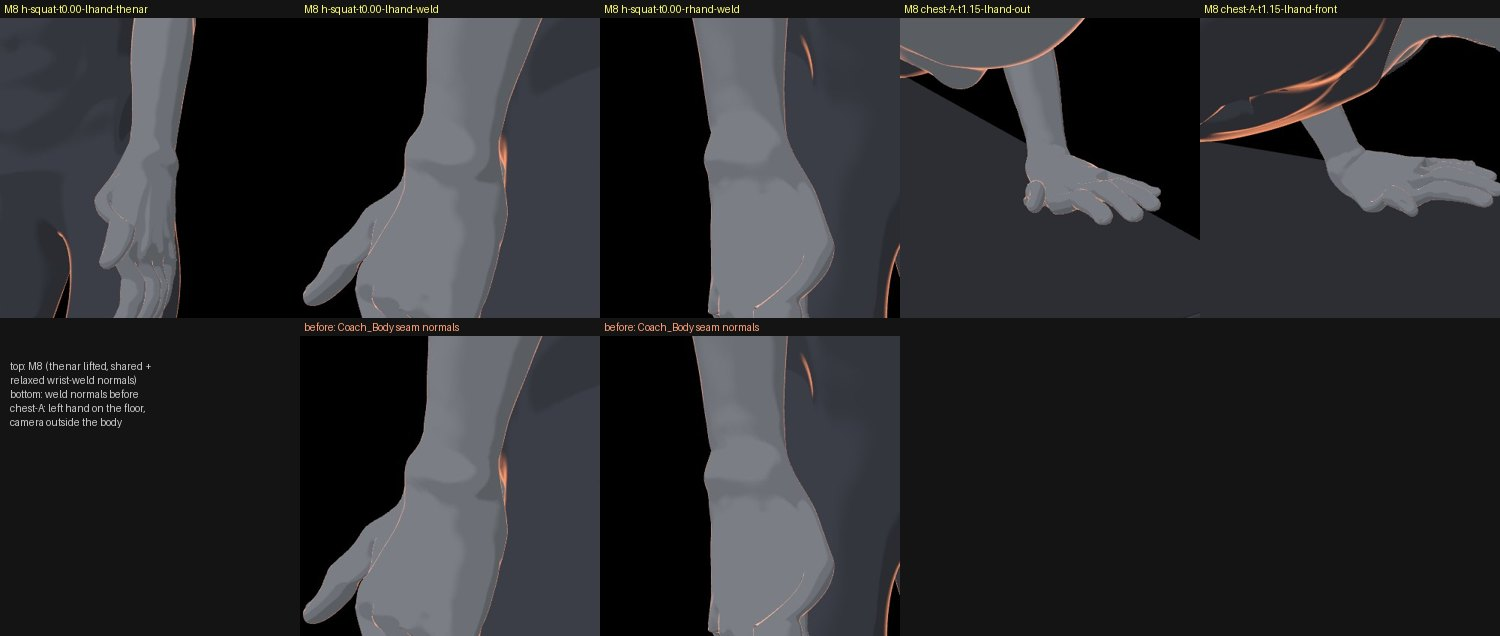
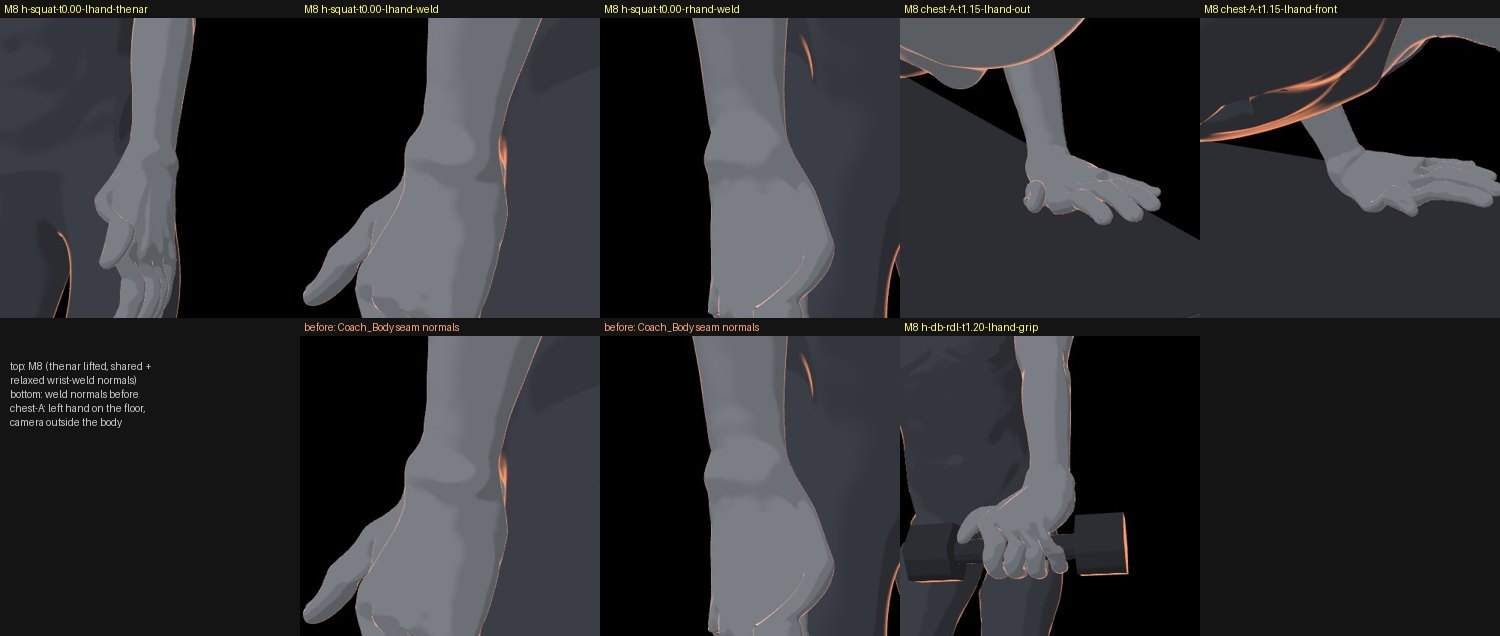
test(v2plus hands M8): fix set adds the h-db-rdl 1.2 left grip close-up (grip clean after the thenar lift); fix.jpg

Changed region(s): [[0.5827, 0.5079, 0.7667, 1.0]]

diff --git a/docs/training-human-v2plus-proto.md b/docs/training-human-v2plus-proto.md
@@ -282,6 +282,6 @@ Base Meshes v1.4.1 realistic male (CC0). Needs `limbs:'base'` (throws otherwise)
   The limbs piece gets the same normals for its wrist seams + 5 rings (`limbsNrm`, 927 verts, converted to bind space in `loadHands`,
   swapped in / out by `setHands`), so limbs-only mode keeps its weld to the v2 hand exactly as before. `H_WELDN=0` rebuilds the old way.
 - **chest-A t=1.15 left hand** (palm on the floor) checked with cameras outside the body: flat palm, fingers on the floor, no folds.
-- Check: `tools/human-v2plus/run.sh tools/human-v2plus/hands-poses.mjs <out> --set fix` (hands only, 5 close-ups; `HANDS_JSON=<file>`
+- Check: `tools/human-v2plus/run.sh tools/human-v2plus/hands-poses.mjs <out> --set fix` (hands only, 6 close-ups incl. the h-db-rdl 1.2 grip; `HANDS_JSON=<file>`
   loads another hands build for an A/B). Image: `docs/reviews/human-v2plus-proto/hands-base/fix.jpg` (top: M8; bottom: wrist welds with
   the old seam normals). `verify.mjs` originalSpecHashesPreserved true. Tag `v2plus-hands-fix`.
